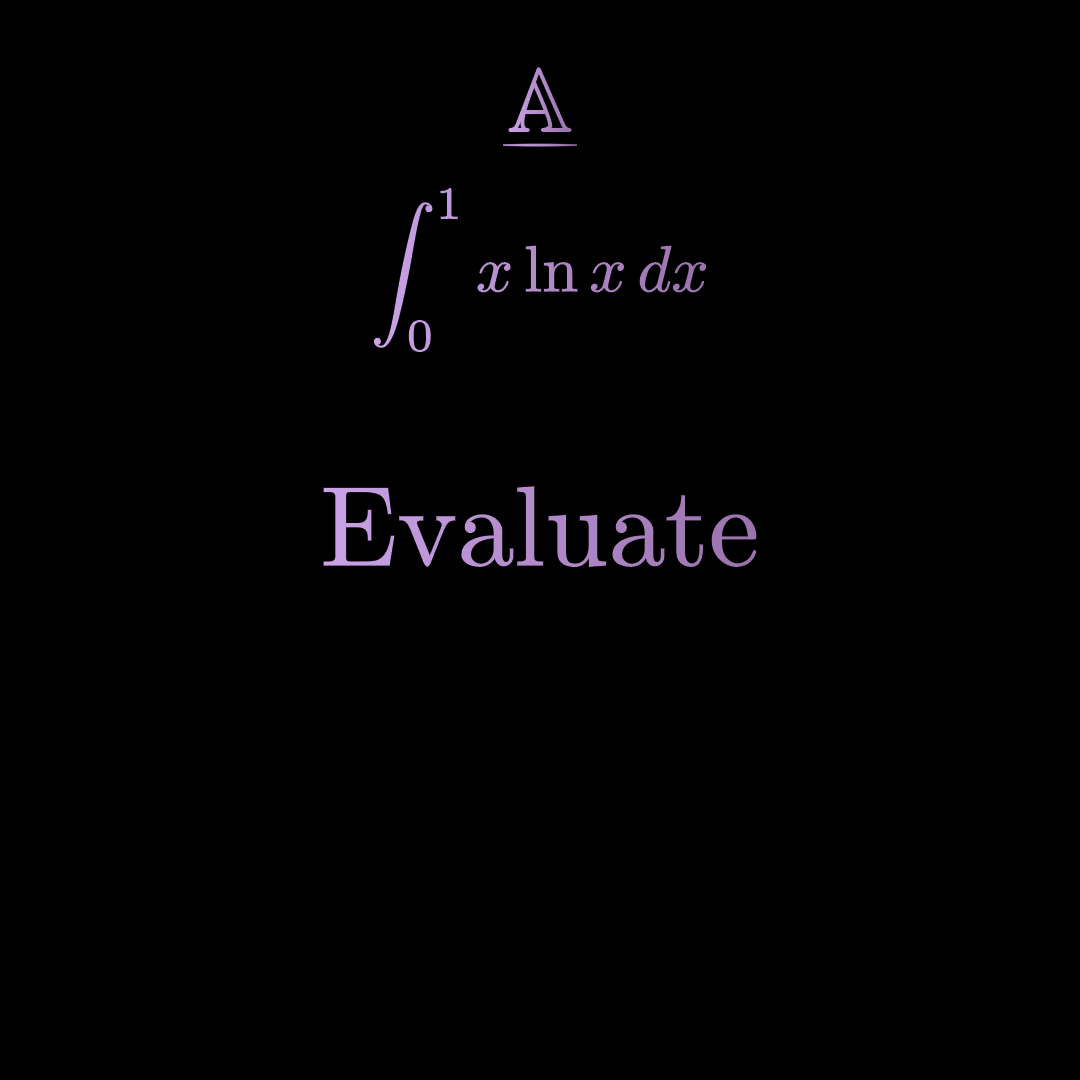
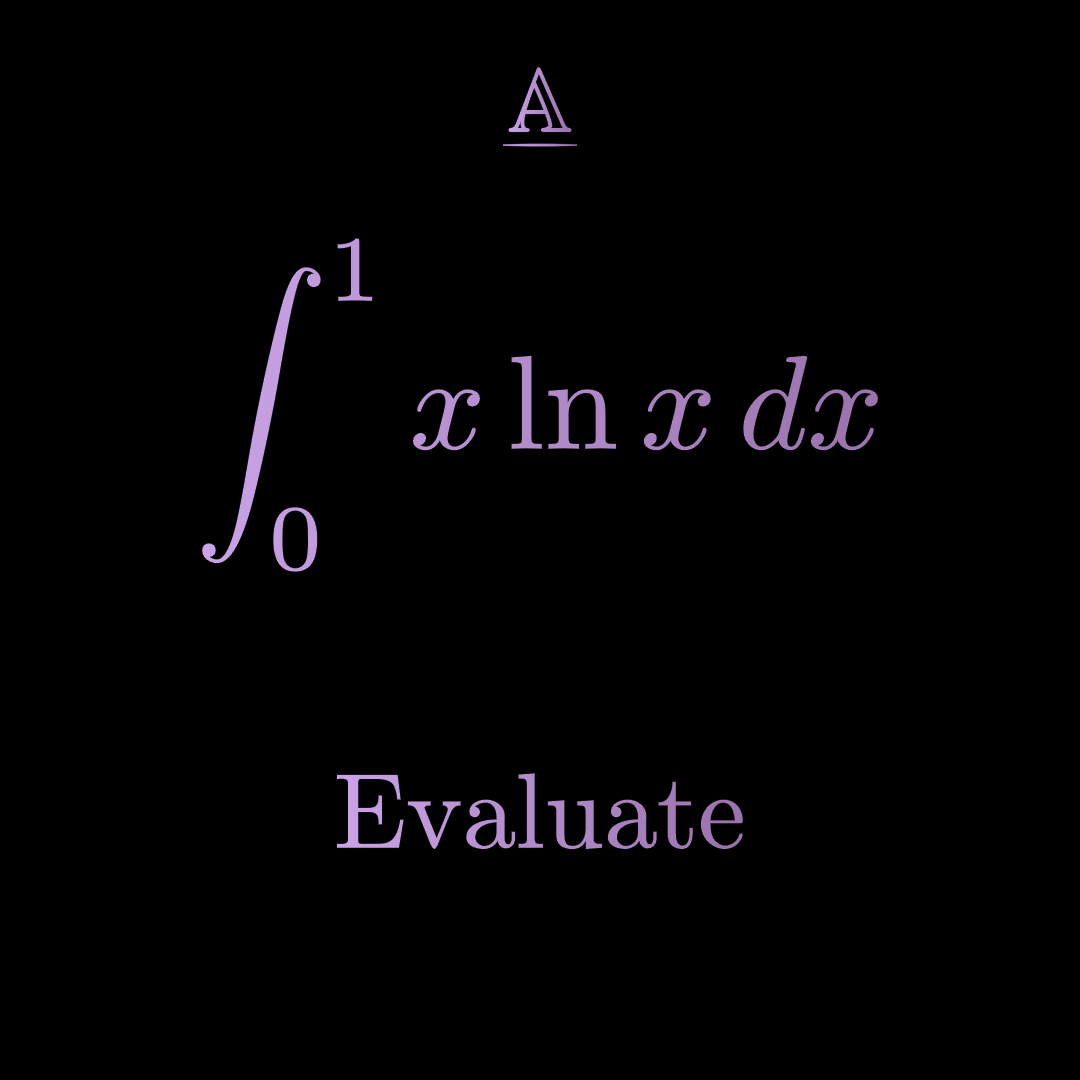
f

diff --git a/char.py b/char.py
@@ -32,13 +32,14 @@ class A(InteractiveScene):
 
         problem = Tex(R"\int_0^1 x\ln x\,dx")
         problem.set_color(color)
-        problem.shift(UP * 2)
+        problem.set_width(FRAME_WIDTH - 3)
+        problem.shift(UP)
         self.add(problem)
 
         solve = TexText("Evaluate")
         solve.set_color(color)
-        solve.set_width(3.2)
-        solve.next_to(problem, DOWN, buff=LARGE_BUFF)
+        solve.set_width(3)
+        solve.next_to(problem, DOWN, buff=LARGE_BUFF * 1.5)
         self.add(solve)
 
 
